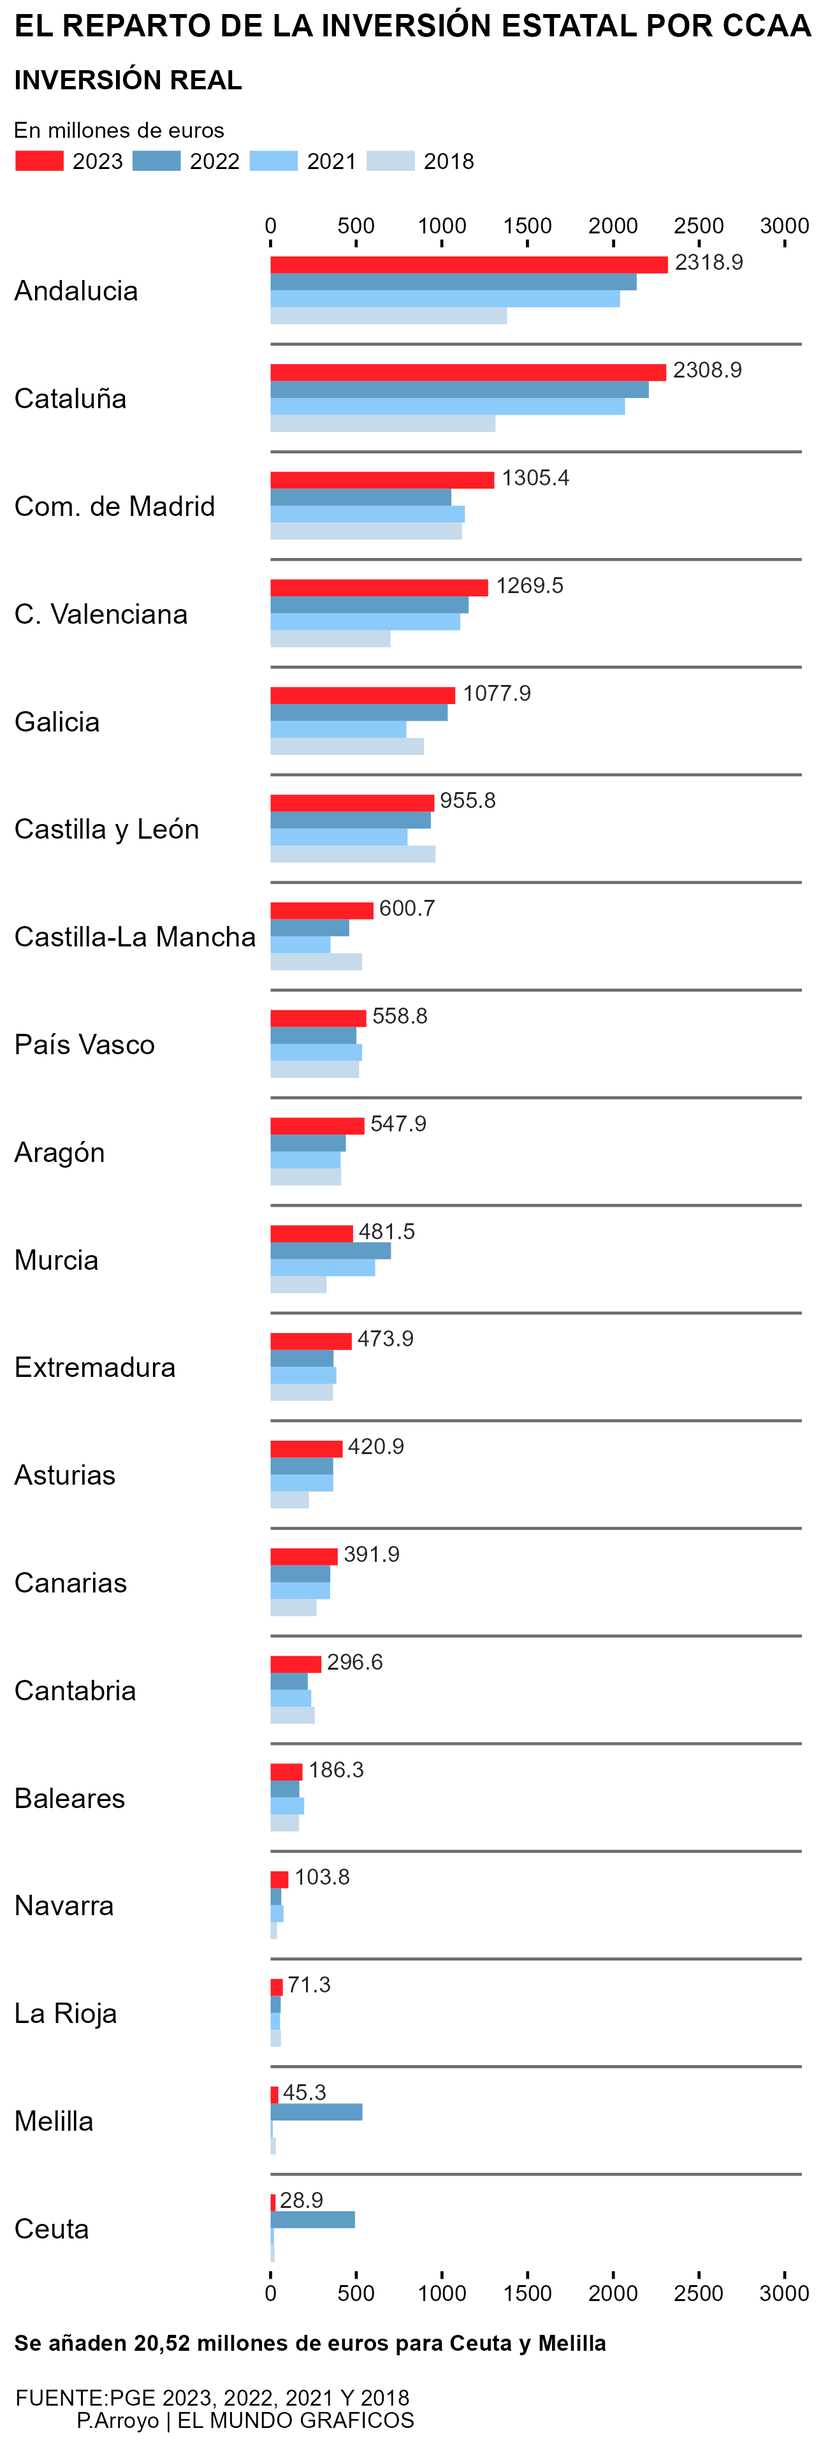
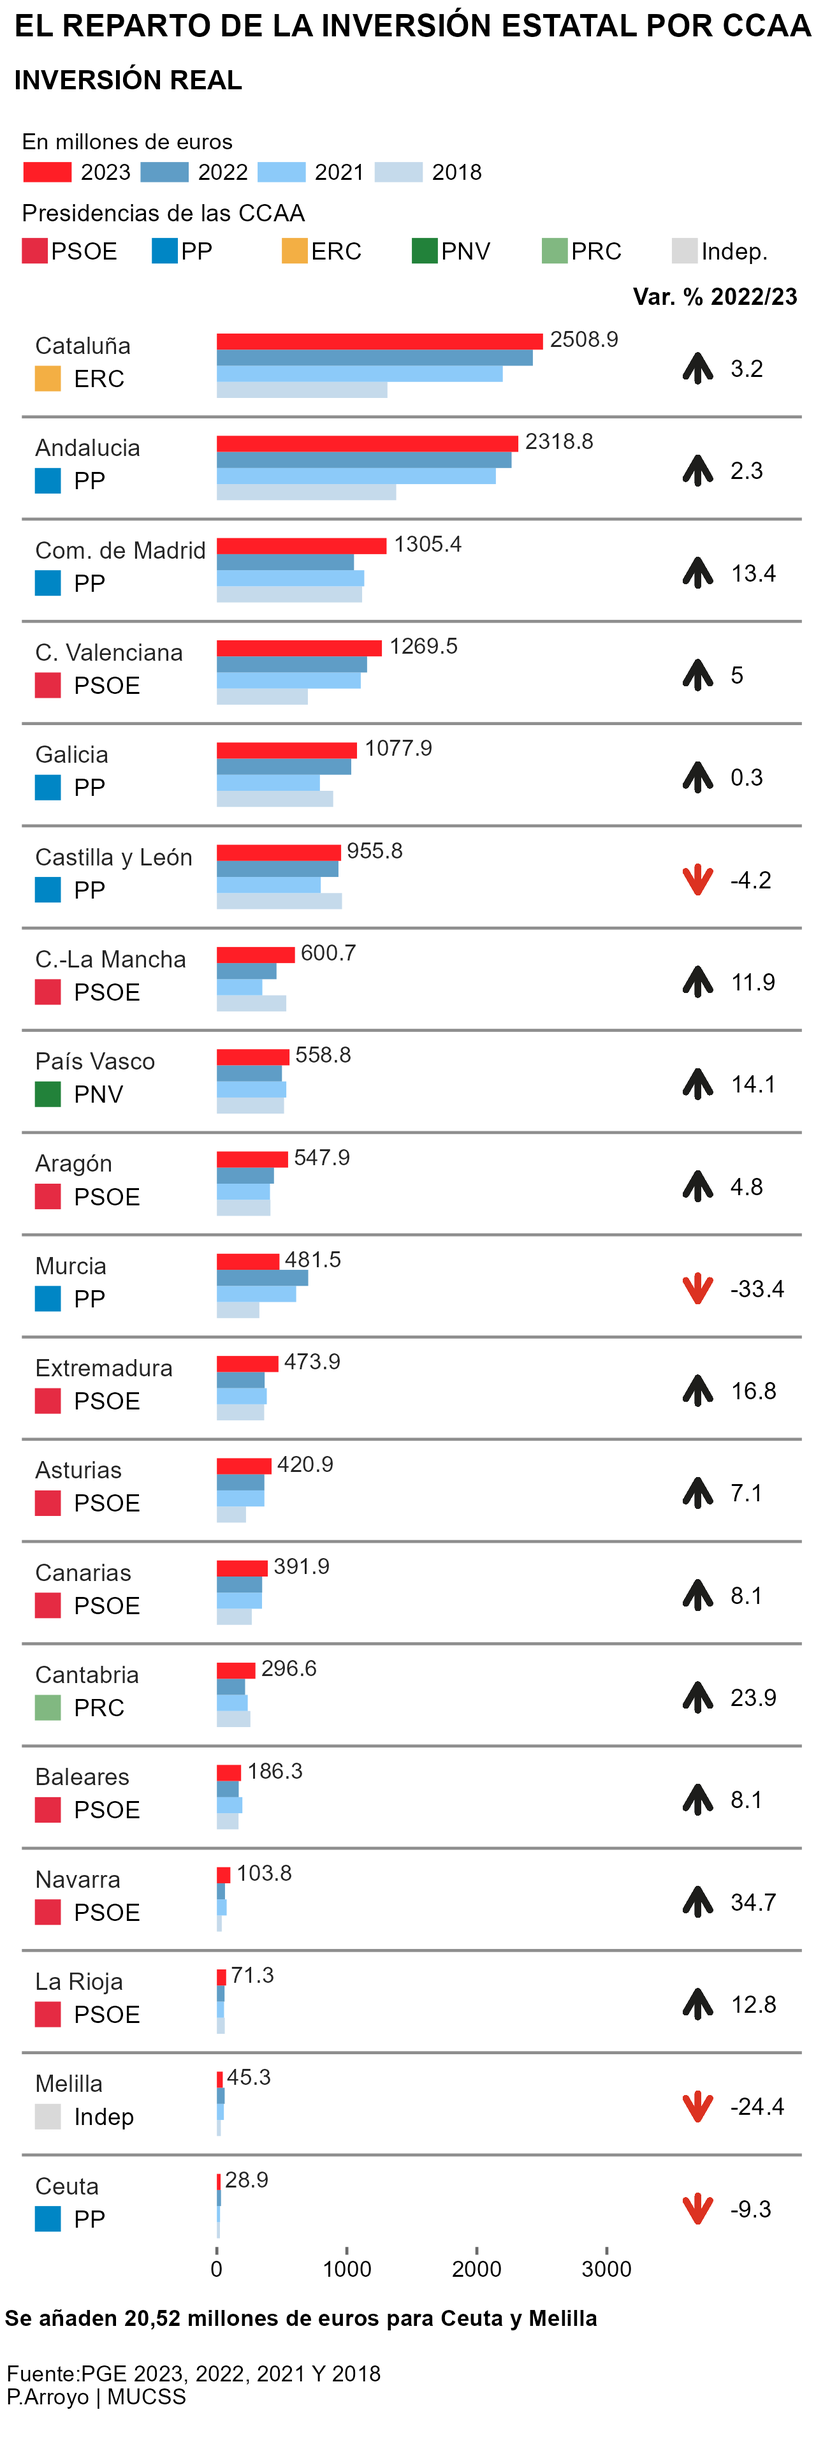
Changes about some colours that weren´t in the proper way and the width

diff --git a/_projects/2022/100483607/100483607.html b/_projects/2022/100483607/100483607.html
@@ -94,8 +94,8 @@ code span.wa { color: #5e5e5e; font-style: italic; } /* Warning */
 
 
   <!--  https://schema.org/Article -->
-  <meta property="article:published" itemprop="datePublished" content="2022-12-30"/>
-  <meta property="article:created" itemprop="dateCreated" content="2022-12-30"/>
+  <meta property="article:published" itemprop="datePublished" content="2022-12-31"/>
+  <meta property="article:created" itemprop="dateCreated" content="2022-12-31"/>
   <meta name="article:author" content="Pablo Arroyo Rodriguez"/>
 
   <!--  https://developers.facebook.com/docs/sharing/webmasters#markup -->
@@ -113,7 +113,7 @@ code span.wa { color: #5e5e5e; font-style: italic; } /* Warning */
   <!--radix_placeholder_rmarkdown_metadata-->
 
   <script type="text/json" id="radix-rmarkdown-metadata">
-  {"type":"list","attributes":{"names":{"type":"character","attributes":{},"value":["title","description","categories","author","date","output"]}},"value":[{"type":"character","attributes":{},"value":["Distribution of state investment by autonomous communities"]},{"type":"character","attributes":{},"value":["This following page is a guide, of how to reproduce step by step, the plot of \"El Mundo Gráficos\" done by the student Pablo Arroyo as a final project for the subject.\n"]},{"type":"character","attributes":{},"value":["2022"]},{"type":"list","attributes":{},"value":[{"type":"list","attributes":{"names":{"type":"character","attributes":{},"value":["name"]}},"value":[{"type":"character","attributes":{},"value":["Pablo Arroyo Rodriguez"]}]}]},{"type":"character","attributes":{},"value":["2022-12-30"]},{"type":"list","attributes":{"names":{"type":"character","attributes":{},"value":["distill::distill_article"]}},"value":[{"type":"list","attributes":{"names":{"type":"character","attributes":{},"value":["self_contained","toc"]}},"value":[{"type":"logical","attributes":{},"value":[false]},{"type":"logical","attributes":{},"value":[true]}]}]}]}
+  {"type":"list","attributes":{"names":{"type":"character","attributes":{},"value":["title","description","categories","author","date","output"]}},"value":[{"type":"character","attributes":{},"value":["Distribution of state investment by autonomous communities"]},{"type":"character","attributes":{},"value":["This following page is a guide, of how to reproduce step by step, the plot of \"El Mundo Gráficos\" done by the student Pablo Arroyo as a final project for the subject.\n"]},{"type":"character","attributes":{},"value":["2022"]},{"type":"list","attributes":{},"value":[{"type":"list","attributes":{"names":{"type":"character","attributes":{},"value":["name"]}},"value":[{"type":"character","attributes":{},"value":["Pablo Arroyo Rodriguez"]}]}]},{"type":"character","attributes":{},"value":["2022-12-31"]},{"type":"list","attributes":{"names":{"type":"character","attributes":{},"value":["distill::distill_article"]}},"value":[{"type":"list","attributes":{"names":{"type":"character","attributes":{},"value":["self_contained","toc"]}},"value":[{"type":"logical","attributes":{},"value":[false]},{"type":"logical","attributes":{},"value":[true]}]}]}]}
   </script>
   <!--/radix_placeholder_rmarkdown_metadata-->
   
@@ -1496,7 +1496,7 @@ code span.wa { color: #5e5e5e; font-style: italic; } /* Warning */
 <!--radix_placeholder_front_matter-->
 
 <script id="distill-front-matter" type="text/json">
-{"title":"Distribution of state investment by autonomous communities","description":"This following page is a guide, of how to reproduce step by step, the plot of \"El Mundo Gráficos\" done by the student Pablo Arroyo as a final project for the subject.","authors":[{"author":"Pablo Arroyo Rodriguez","authorURL":"#","affiliation":"&nbsp;","affiliationURL":"#","orcidID":""}],"publishedDate":"2022-12-30T00:00:00.000+01:00","citationText":"Rodriguez, 2022"}
+{"title":"Distribution of state investment by autonomous communities","description":"This following page is a guide, of how to reproduce step by step, the plot of \"El Mundo Gráficos\" done by the student Pablo Arroyo as a final project for the subject.","authors":[{"author":"Pablo Arroyo Rodriguez","authorURL":"#","affiliation":"&nbsp;","affiliationURL":"#","orcidID":""}],"publishedDate":"2022-12-31T00:00:00.000+01:00","citationText":"Rodriguez, 2022"}
 </script>
 
 <!--/radix_placeholder_front_matter-->
@@ -1519,7 +1519,7 @@ code span.wa { color: #5e5e5e; font-style: italic; } /* Warning */
   
   Pablo Arroyo Rodriguez
   
-<br/>2022-12-30
+<br/>2022-12-31
 </div>
 
 <div class="d-article">
@@ -1547,10 +1547,7 @@ code span.wa { color: #5e5e5e; font-style: italic; } /* Warning */
 </div>
 <p>The distribution of state investment by autonomous communities, it is a tricky topic that each year comes to the news. When the State´s budget is published, almost the first thing that each media do is to analyze what are the communities that receive more, and what are the ones that receive less. This could be important, because depending on the needing of support for the governance, more money would go to one community or another.</p>
 <p>The point here, is in the differences between Madrid and Catalonia. However, as illustrated here, the budget from Catalonia is closer to Andalusia rather than Madrid. We can see notices of this kind in the national press channel <a href="https://www.rtve.es/noticias/20221006/presupuestos-2023-comunidades/2405230.shtml"><em>“Catalonia and Andalusia lead state investment with almost twice the budget of Madrid and the Valencian Community”</em></a> or the <a href="https://www.elmundo.es/economia/2022/10/06/633f1bf0fdddffba108b459c.html"><em>“El Mundo”</em></a> from which I took the graph.</p>
-<figure>
-<img src="ccaa470.jpg" class="external" alt="J.Aguirre | EL MUNDO GRÁFICOS. Figure from elmundo.es." />
-<figcaption aria-hidden="true">J.Aguirre | EL MUNDO GRÁFICOS. Figure from <a href="https://elmundo.es">elmundo.es</a>.</figcaption>
-</figure>
+<p><img src="ccaa470.jpg" alt="J.Aguirre | EL MUNDO GRÁFICOS. Figure from elmundo.es." />{.external, width=100%}</p>
 <h2 id="getting-the-data">Getting the data</h2>
 <p>Apparently, the data could be really easy to obtain from an official source, because if you observe this same data from different papers, figures vary a bit. But, as expected with public institutions, the process is really tedious. So, what I did is to obtain the data from the public institution in charge of this figures in Spain, <a href="https://www.igae.pap.hacienda.gob.es/sitios/igae/es-ES/Contabilidad/ContabilidadPublica/CPE/EjecucionPresupuestaria/Paginas/isdistribucioninversion.aspx"><em>La Intervención General de la Administración del Estado</em></a> with data from 2009 to 2022.</p>
 <p>For data about the budget for the next year, 2023, I used another official page which show the information in a visual way, <a href="https://www.epdata.es/datos/inversion-gobierno-comunidades-datos-estadisticas/263"><em>Ministerio de Hacienda, epdata</em></a>.</p>
@@ -1625,7 +1622,7 @@ $ `2023`    &lt;dbl&gt; 2318.8, 2508.9, 1305.4, 1269.5, 1077.9, 955.8, 600…</c
 <span></span>
 <span><span class='va'>p</span></span></code></pre>
 </div>
-<p><img src="100483607_files/figure-html5/unnamed-chunk-4-1.png" width="624" style="display: block; margin: auto;" /></p>
+<p><img src="100483607_files/figure-html5/unnamed-chunk-4-1.png" width="100%" style="display: block; margin: auto;" /></p>
 </div>
 <p>With this first chunk of code, the baseline of the plot appears. Based on which, we will be adding information and modifying the different characteristic, in order to satisfy the same specification as in the selected one. However, the names of the communities are all together and it is really difficult to understand. It is a pointless point, so it´s worth it to have a vertical disposition instead of a horizontal one, the categories would be more readable.</p>
 <p>As it could be seen in the example, the graph has certain limits for the values of our data. One of the first points that we have to do, is to fix those values within the specific categories. In this case from 0 to 3000 in steps of 500. I decided to expand the limits a bit more than this 3000, because otherwise the label for this 3000 extended passed the axis and we could not see it.</p>
@@ -1655,7 +1652,7 @@ $ `2023`    &lt;dbl&gt; 2318.8, 2508.9, 1305.4, 1269.5, 1077.9, 955.8, 600…</c
 <span></span>
 <span><span class='va'>p</span></span></code></pre>
 </div>
-<p><img src="100483607_files/figure-html5/unnamed-chunk-5-1.png" width="624" style="display: block; margin: auto;" /></p>
+<p><img src="100483607_files/figure-html5/unnamed-chunk-5-1.png" width="100%" style="display: block; margin: auto;" /></p>
 </div>
 <p>A last comment about this previous chunk. The names of the axis have been deleted, because we do not want it to appear in our last graph, but also, we set a specific order for the name of the communities, based on the highest budget for the year 2023.</p>
 <h3 id="theme">Theme</h3>
@@ -1675,7 +1672,7 @@ $ `2023`    &lt;dbl&gt; 2318.8, 2508.9, 1305.4, 1269.5, 1077.9, 955.8, 600…</c
 <span>    </span>
 <span><span class='va'>p</span></span></code></pre>
 </div>
-<p><img src="100483607_files/figure-html5/unnamed-chunk-6-1.png" width="624" style="display: block; margin: auto;" /></p>
+<p><img src="100483607_files/figure-html5/unnamed-chunk-6-1.png" width="100%" style="display: block; margin: auto;" /></p>
 </div>
 <p>We have an empty graph, with nothing inside which is the case that we are trying to replicate. However, we need to add the guides, and coord_flip() to see something similar to the original one. So, we will do it.</p>
 <div class="layout-chunk" data-layout="l-body">
@@ -1690,7 +1687,7 @@ $ `2023`    &lt;dbl&gt; 2318.8, 2508.9, 1305.4, 1269.5, 1077.9, 955.8, 600…</c
 <span></span>
 <span><span class='va'>p</span></span></code></pre>
 </div>
-<p><img src="100483607_files/figure-html5/unnamed-chunk-7-1.png" width="384" style="display: block; margin: auto;" /></p>
+<p><img src="100483607_files/figure-html5/unnamed-chunk-7-1.png" width="100%" style="display: block; margin: auto;" /></p>
 </div>
 <p>Instead of having a vertical bar chart which is the usual scenario after applying for these changes, we have a horizontal plot, with nothing inside. The graph is starting to seem similar to the original one. However, it is a kind of graph that by its nature, it is much longer than wider, so we have to change the adjustment of our R.Markdown to obtain what we want.</p>
 <p>Notice, that we have changed the specification of the graph, the plot is more or less what we want. Now is the time to add the data and the annotations.</p>
@@ -1758,7 +1755,7 @@ $ `2023`    &lt;dbl&gt; 2318.8, 2508.9, 1305.4, 1269.5, 1077.9, 955.8, 600…</c
 <span></span>
 <span><span class='va'>p</span></span></code></pre>
 </div>
-<p><img src="100483607_files/figure-html5/unnamed-chunk-8-1.png" width="384" style="display: block; margin: auto;" /></p>
+<p><img src="100483607_files/figure-html5/unnamed-chunk-8-1.png" width="100%" style="display: block; margin: auto;" /></p>
 </div>
 <h3 id="data">Data</h3>
 <p>This graph is based on grouped data by an autonomous community. With the name of the different communities and their budget from four different years, that is why in the previous steps it was important to pivot longer the data, and establish the different year and communities as_factor(). So, it is the type of grouped bar chart.</p>
@@ -1773,7 +1770,7 @@ $ `2023`    &lt;dbl&gt; 2318.8, 2508.9, 1305.4, 1269.5, 1077.9, 955.8, 600…</c
 <span></span>
 <span><span class='va'>p</span></span></code></pre>
 </div>
-<p><img src="100483607_files/figure-html5/unnamed-chunk-9-1.png" width="384" style="display: block; margin: auto;" /></p>
+<p><img src="100483607_files/figure-html5/unnamed-chunk-9-1.png" width="100%" style="display: block; margin: auto;" /></p>
 </div>
 <p>The graph it is closer to our final result. Few things are still left such as a good title, subtitle and caption. But also, we have to establish a good position for the legend which is almost higher than the plot, and this does not make any sense.</p>
 <h3 id="labs">Labs</h3>
@@ -1813,7 +1810,7 @@ $ `2023`    &lt;dbl&gt; 2318.8, 2508.9, 1305.4, 1269.5, 1077.9, 955.8, 600…</c
 <span>    <span class='op'>)</span> </span>
 <span><span class='va'>p</span></span></code></pre>
 </div>
-<p><img src="100483607_files/figure-html5/unnamed-chunk-11-1.png" width="384" style="display: block; margin: auto;" /></p>
+<p><img src="100483607_files/figure-html5/unnamed-chunk-11-1.png" width="100%" style="display: block; margin: auto;" /></p>
 </div>
 <h3 id="legend">Legend</h3>
 <p>However, we still have the legend in a position that modifies the whole graph, and we have to change that to obtain a real reproduction.</p>
@@ -1835,7 +1832,7 @@ $ `2023`    &lt;dbl&gt; 2318.8, 2508.9, 1305.4, 1269.5, 1077.9, 955.8, 600…</c
 <span>  <span class='fu'><a href='https://ggplot2.tidyverse.org/reference/guides.html'>guides</a></span><span class='op'>(</span>fill<span class='op'>=</span> <span class='fu'><a href='https://ggplot2.tidyverse.org/reference/guide_legend.html'>guide_legend</a></span><span class='op'>(</span>title.position <span class='op'>=</span> <span class='st'>"top"</span>, title.hjust <span class='op'>=</span> <span class='fl'>0</span><span class='op'>)</span><span class='op'>)</span></span>
 <span><span class='va'>p</span></span></code></pre>
 </div>
-<p><img src="100483607_files/figure-html5/unnamed-chunk-12-1.png" width="384" style="display: block; margin: auto;" /></p>
+<p><img src="100483607_files/figure-html5/unnamed-chunk-12-1.png" width="100%" style="display: block; margin: auto;" /></p>
 </div>
 <p>Once we have done that, the representation is consistent with what we want, because everything is adjusted and aligned, not as in the previous steps, that when you modify something everything changes and you have to start again. But never give up, you will finish doing it!</p>
 <p>It is time to introduce the annotation near to the name of each community. I tried to do it at the same time in just one chunk of code, but only the names from 3 different communities and the other disappeared. I do not know the reason well. So that is why I decided to do it step by step although it is longer. Sure, there is a better option.</p>
@@ -1983,15 +1980,12 @@ $ `2023`    &lt;dbl&gt; 2318.8, 2508.9, 1305.4, 1269.5, 1077.9, 955.8, 600…</c
 <span></span>
 <span><span class='va'>p</span></span></code></pre>
 </div>
-<p><img src="100483607_files/figure-html5/unnamed-chunk-13-1.png" width="384" style="display: block; margin: auto;" /></p>
+<p><img src="100483607_files/figure-html5/unnamed-chunk-13-1.png" width="100%" style="display: block; margin: auto;" /></p>
 </div>
 <h2 id="improvements">Improvements</h2>
 <p>The plot that I decided to reproduce, was quite complete with almost all the elements that should be included for a good representation, such as: a nice axis with its reference, annotations of different values, a clear legend, nice colors and so on.
 However, as a reader of newspapers I miss an interesting point that all graphs should have, something that draws our attention and keeps us reading the notice. This could be done by introducing some interesting point, or maybe some controversial that keeps readers awake, that is why I decided to do the following graph:</p>
-<figure>
-<img src="Grafico_Definitivo.png" class="external" alt="P.Arroyo | MUCSS." />
-<figcaption aria-hidden="true">P.Arroyo | MUCSS.</figcaption>
-</figure>
+<p><img src="Grafico_Definitivo.png" alt="P.Arroyo | MUCSS." />{.external, width=100%}</p>
 <p>Mainly, I decided to do two thing:</p>
 <ul>
 <li><p>Adding the name of the policy party that is in charge of each community.</p></li>
@@ -2448,6 +2442,7 @@ I have to point out that I don’t like in his definitive graph the inclusion of
 <span>  <span class='op'>)</span> </span>
 <span></span>
 <span><span class='co'>###Anotations for the homemade guide about the different policies parties.</span></span>
+<span></span>
 <span><span class='va'>t</span><span class='op'>&lt;-</span> <span class='va'>t</span> <span class='op'>+</span> <span class='fu'><a href='https://ggplot2.tidyverse.org/reference/annotate.html'>annotate</a></span><span class='op'>(</span>geom <span class='op'>=</span> <span class='st'>"text"</span>, x <span class='op'>=</span> <span class='fl'>20.5</span>, y <span class='op'>=</span> <span class='op'>-</span><span class='fl'>1500</span>,</span>
 <span>                 label <span class='op'>=</span> <span class='st'>"Presidencias de las CCAA"</span>, hjust <span class='op'>=</span> <span class='fl'>0</span>, size <span class='op'>=</span> <span class='fl'>3</span><span class='op'>)</span> <span class='op'>+</span></span>
 <span>  <span class='fu'><a href='https://ggplot2.tidyverse.org/reference/annotate.html'>annotate</a></span><span class='op'>(</span>geom <span class='op'>=</span> <span class='st'>"rect"</span>, xmin <span class='op'>=</span> <span class='fl'>20.25</span>, xmax <span class='op'>=</span> <span class='fl'>20</span>,</span>
@@ -2455,9 +2450,9 @@ I have to point out that I don’t like in his definitive graph the inclusion of
 <span>  <span class='fu'><a href='https://ggplot2.tidyverse.org/reference/annotate.html'>annotate</a></span><span class='op'>(</span>geom <span class='op'>=</span> <span class='st'>"rect"</span>, xmin <span class='op'>=</span> <span class='fl'>20.25</span>, xmax <span class='op'>=</span> <span class='fl'>20</span>,</span>
 <span>           ymin <span class='op'>=</span> <span class='op'>-</span><span class='fl'>500</span>, ymax <span class='op'>=</span> <span class='op'>-</span><span class='fl'>300</span>, fill <span class='op'>=</span> <span class='st'>"#0086c5"</span>, alpha <span class='op'>=</span> <span class='fl'>1</span><span class='op'>)</span> <span class='op'>+</span> <span class='co'>#Color PP</span></span>
 <span>  <span class='fu'><a href='https://ggplot2.tidyverse.org/reference/annotate.html'>annotate</a></span><span class='op'>(</span>geom <span class='op'>=</span> <span class='st'>"rect"</span>, xmin <span class='op'>=</span> <span class='fl'>20.25</span>, xmax <span class='op'>=</span> <span class='fl'>20</span>,</span>
-<span>           ymin <span class='op'>=</span> <span class='fl'>500</span>, ymax <span class='op'>=</span> <span class='fl'>700</span>, fill <span class='op'>=</span> <span class='st'>"#22823a"</span>, alpha <span class='op'>=</span> <span class='fl'>1</span><span class='op'>)</span><span class='op'>+</span> <span class='co'>#Color PNV</span></span>
+<span>           ymin <span class='op'>=</span> <span class='fl'>500</span>, ymax <span class='op'>=</span> <span class='fl'>700</span>, fill <span class='op'>=</span> <span class='st'>"#f3af44"</span>, alpha <span class='op'>=</span> <span class='fl'>1</span><span class='op'>)</span><span class='op'>+</span> <span class='co'>#Color ERC</span></span>
 <span>  <span class='fu'><a href='https://ggplot2.tidyverse.org/reference/annotate.html'>annotate</a></span><span class='op'>(</span>geom <span class='op'>=</span> <span class='st'>"rect"</span>, xmin <span class='op'>=</span> <span class='fl'>20.25</span>, xmax <span class='op'>=</span> <span class='fl'>20</span>,</span>
-<span>           ymin <span class='op'>=</span> <span class='fl'>1500</span>, ymax <span class='op'>=</span> <span class='fl'>1700</span>, fill <span class='op'>=</span> <span class='st'>"#f3af44"</span>, alpha <span class='op'>=</span> <span class='fl'>1</span><span class='op'>)</span><span class='op'>+</span> <span class='co'>#Color ERC</span></span>
+<span>           ymin <span class='op'>=</span> <span class='fl'>1500</span>, ymax <span class='op'>=</span> <span class='fl'>1700</span>, fill <span class='op'>=</span> <span class='st'>"#22823a"</span>, alpha <span class='op'>=</span> <span class='fl'>1</span><span class='op'>)</span><span class='op'>+</span> <span class='co'>#Color PNV</span></span>
 <span>  <span class='fu'><a href='https://ggplot2.tidyverse.org/reference/annotate.html'>annotate</a></span><span class='op'>(</span>geom <span class='op'>=</span> <span class='st'>"rect"</span>, xmin <span class='op'>=</span> <span class='fl'>20.25</span>, xmax <span class='op'>=</span> <span class='fl'>20</span>,</span>
 <span>           ymin <span class='op'>=</span> <span class='fl'>2500</span>, ymax <span class='op'>=</span> <span class='fl'>2700</span>, fill <span class='op'>=</span> <span class='st'>"#81b881"</span>, alpha <span class='op'>=</span> <span class='fl'>1</span><span class='op'>)</span><span class='op'>+</span> <span class='co'>#Color PRC</span></span>
 <span>  <span class='fu'><a href='https://ggplot2.tidyverse.org/reference/annotate.html'>annotate</a></span><span class='op'>(</span>geom <span class='op'>=</span> <span class='st'>"rect"</span>, xmin <span class='op'>=</span> <span class='fl'>20.25</span>, xmax <span class='op'>=</span> <span class='fl'>20</span>,</span>
@@ -2631,7 +2626,7 @@ I have to point out that I don’t like in his definitive graph the inclusion of
 <span>                    color <span class='op'>=</span> <span class='st'>"black"</span>, lineheight <span class='op'>=</span> <span class='fl'>0.85</span><span class='op'>)</span><span class='op'>)</span></span>
 <span><span class='va'>t</span></span></code></pre>
 </div>
-<p><img src="100483607_files/figure-html5/unnamed-chunk-14-1.png" width="384" style="display: block; margin: auto;" /></p>
+<p><img src="100483607_files/figure-html5/unnamed-chunk-14-1.png" width="100%" style="display: block; margin: auto;" /></p>
 </div>
 <h2 id="conclusion">Conclusion</h2>
 <p>Once I completed the whole project, I have to say that it is a challenging process. You will be dealing with new tools that we have never seen before although they are really useful.
